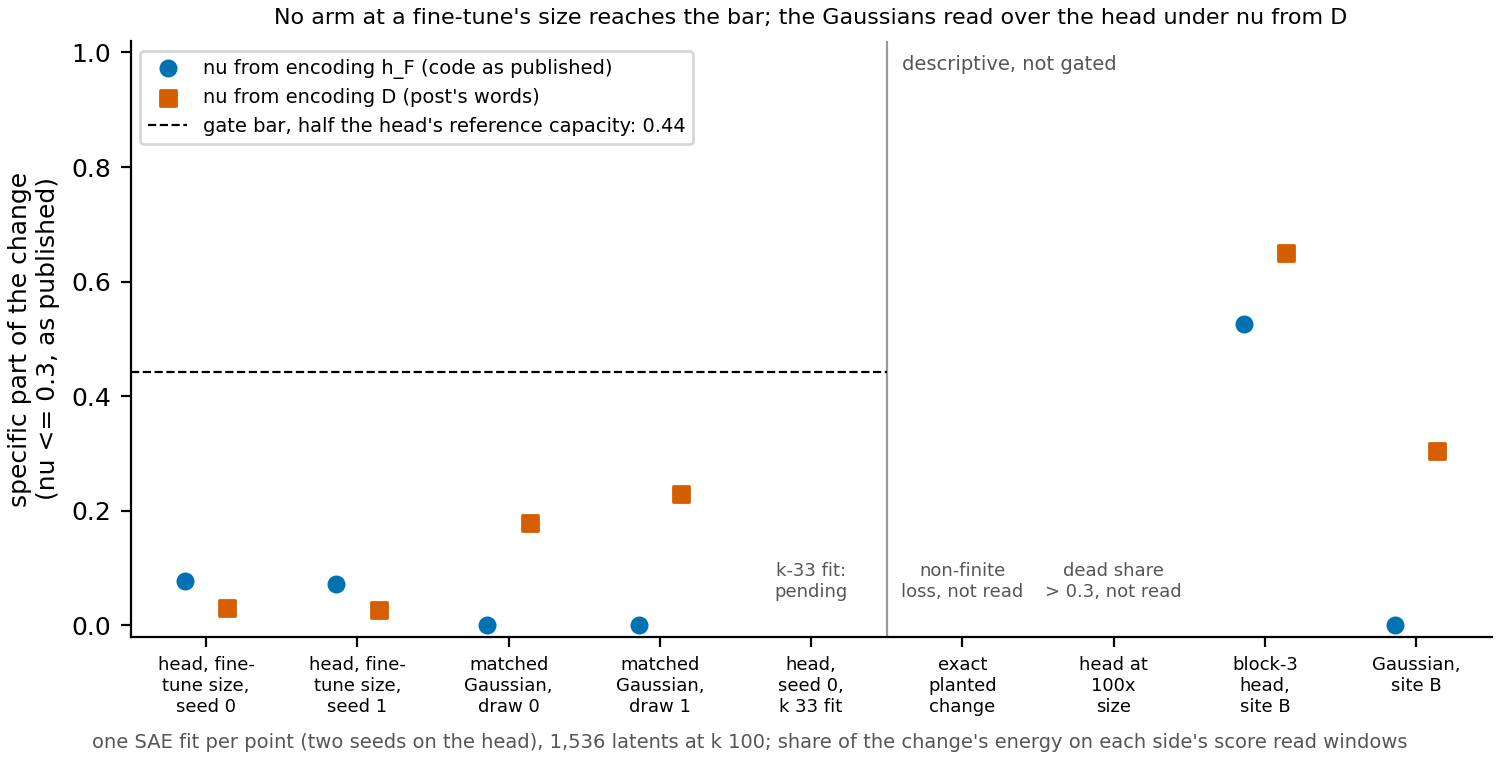
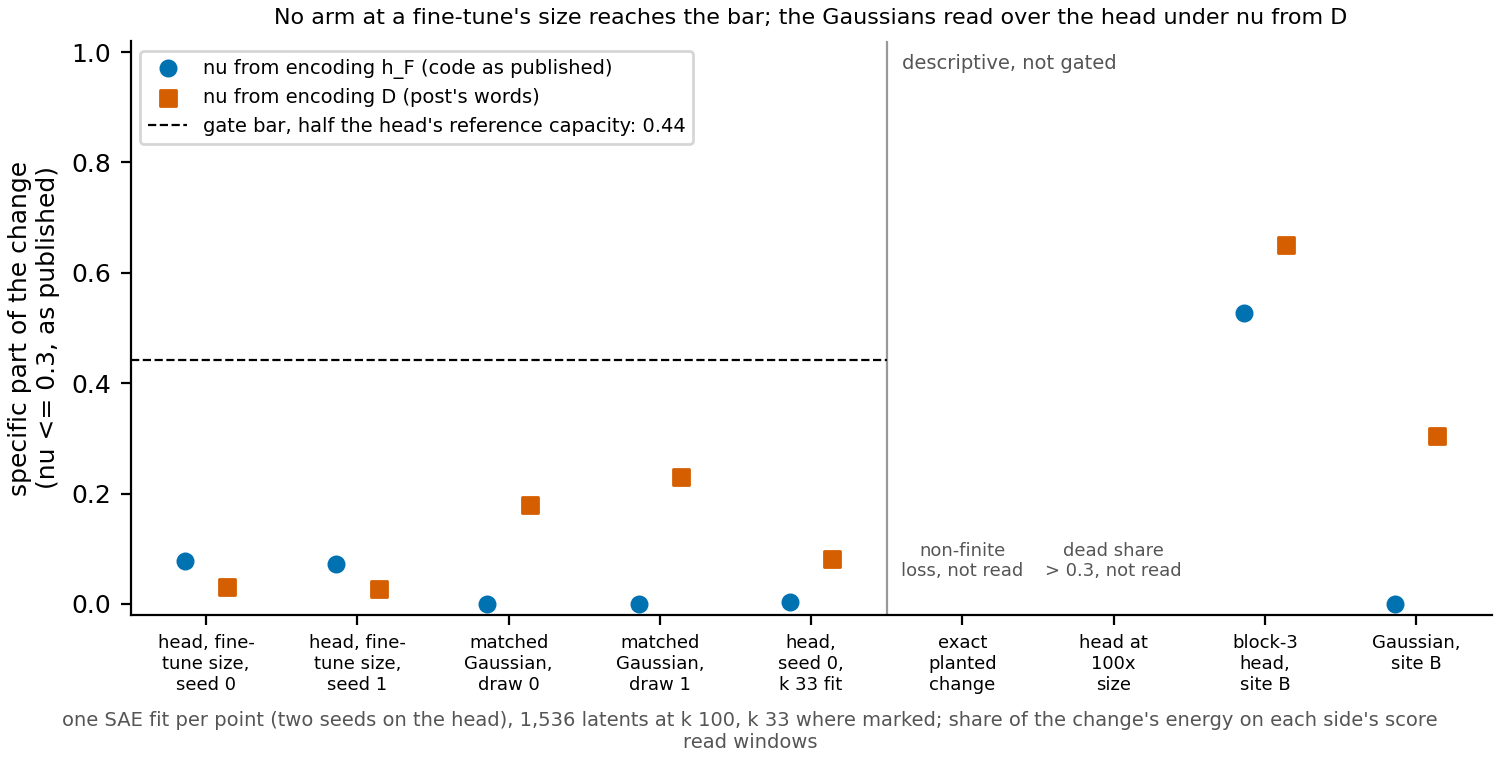
P2.75 E296 run 1: k-33 fit read into the result page, ledger and figure (also below reach)

diff --git a/experiments/diff_sae/plot.py b/experiments/diff_sae/plot.py
@@ -70,7 +70,7 @@ def main() -> int:
     ax.set_ylim(-0.02, 1.02)
     ax.set_title("No arm at a fine-tune's size reaches the bar; the Gaussians read over the head under nu from D", fontsize=8)
     ax.legend(fontsize=7, loc="upper left")
-    save(fig, HERE / "figures" / f"{a.tag}_specific.png", n="one SAE fit per point (two seeds on the head), 1,536 latents at k 100; "
+    save(fig, HERE / "figures" / f"{a.tag}_specific.png", n="one SAE fit per point (two seeds on the head), 1,536 latents at k 100, k 33 where marked; "
          "share of the change's energy on each side's score read windows", data=rows)
     return 0
 

diff --git a/reports/analyses/2026-11-24_analysis_p2-75-diff-sae.md b/reports/analyses/2026-11-24_analysis_p2-75-diff-sae.md
@@ -35,9 +35,11 @@ Gaussian read 0 and 0.3045. So at one seed the method separates a written change
 larger than a fine-tune's on this model. Two arms gave no reading,
 and they are set out below.
 
-**k-33 fit: pending.** whip-lead approved the conditional fit on the head at seed 0, with a third of the published k.
-It asks whether the head's change is split over many latents or lies below the method's reach. It is running now,
-and its reading goes here and in the figure's marked slot when it lands.
+**The k-33 fit: also below reach.** whip-lead approved one more fit on the head at seed 0, with a third of the published
+k. It asks whether the head's change is spread thinly over many latents, which a sparser code would gather, or lies
+below the method's reach. It ran clean, with no dead latents, and its latents together carried 0.855 of the change.
+The specific part read 0.0040 under the code's form and 0.0818 under the post's, against the same bar of 0.4422. So the
+sparser code does not make the head readable: it stays below the method's reach, and the outcome stands.
 
 ![Specific part per arm under both forms of nu, with the gate bar](../../experiments/diff_sae/figures/run1_specific.png)
 
@@ -71,6 +73,7 @@ is the SAE's fraction of the difference's variance explained on the 5M validatio
 |---|---|---|---|---|---|
 | head, fine-tune size, seed 0 | A | 0.0775 | 0.0299 | 0.885 | 0.925 |
 | head, fine-tune size, seed 1 | A | 0.0731 | 0.0275 | 0.879 | 0.925 |
+| head, seed 0, k 33 | A | 0.0040 | 0.0818 | 0.855 | 0.881 |
 | matched Gaussian, draw 0 | A | 0 | 0.1785 | 0.806 | 0.750 |
 | matched Gaussian, draw 1 | A | 0 | 0.2297 | 0.777 | 0.718 |
 | exact planted change | A | stopped at step 5700, non-finite loss | | | |
@@ -109,7 +112,7 @@ cannot apply.
 - **Training order.** Ours: E235's interleaved stream, not per-dataset prefixes shuffled in 1M-token shards.
 - **Storage.** Ours: fp32 forwards and the difference in fp32, not bf16, whose rounding is a fine-tune's size here.
 - **Normaliser.** Theirs in rule, ours in port: 500k tokens from each of two datasets, one stream pass.
-- **SAE.** Theirs: BatchTopK at expansion 2, 1,536 latents at k 100. A k-33 fit was conditional on the head failing.
+- **SAE.** Theirs: BatchTopK at expansion 2, 1,536 latents at k 100. Ours: one k-33 fit on the head, run because the head failed under both forms.
 - **Recipe and loop.** Theirs: `lr 1e-4`, warm-up 1,000 steps, batch 2,048, AuxK, threshold EMA, TF32, logging every 50
   steps and validation every 20,000 on 5M tokens.
 - **Validation text.** Ours: 5M Pile tokens from train rows 196,608 to 206,392, since each side's task text is all
